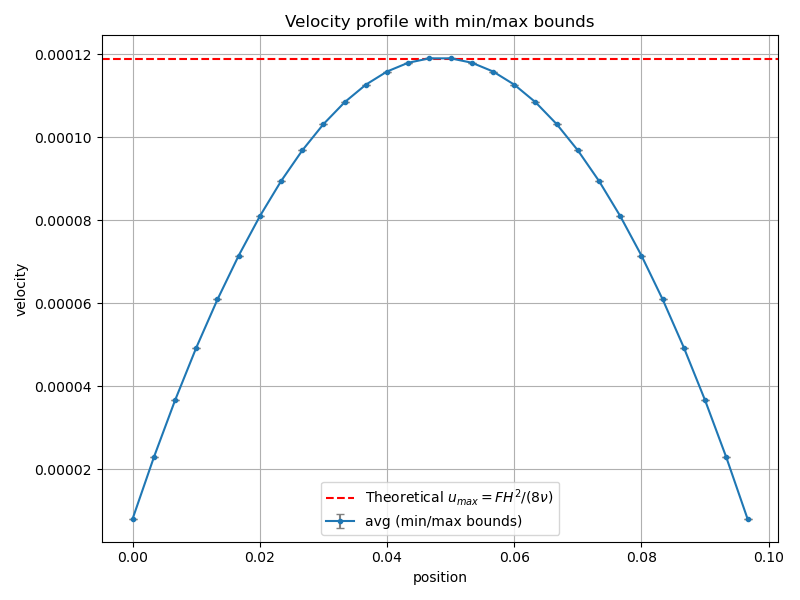
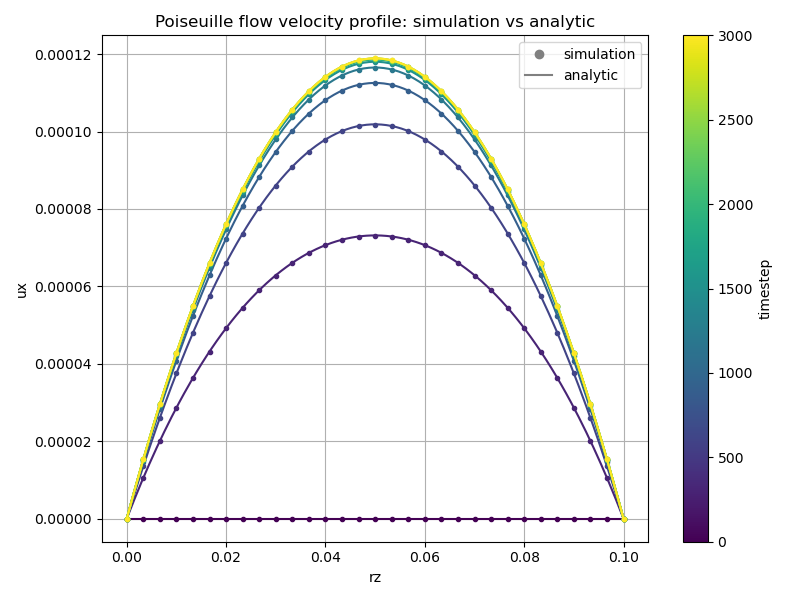
update poiseuille section

diff --git a/docs/source/pages/Examples.rst b/docs/source/pages/Examples.rst
@@ -33,12 +33,21 @@ An external force of `(9.512485×10−5,0.0,0.0)` is applied to drive the flow. 
         Fext: [9.512485e-05,0.000000e+00,0.000000e+00]
         nuth: 1e-3
 
-The global parameters for this simulation include output frequency and the total number of iterations:
+A ``plot_line_velocity`` analysis operator samples the velocity along a line probe at the center of the domain every 300 iterations. A ``plane_velocity_profile`` checker also exports the average Z profile:
 
 .. code-block:: yaml
 
+   analysis:
+     - plot_line_velocity:
+        line: [[0.05,0.05,0],[0.05,0.05,0.1]]
+
+   checker:
+     - plane_velocity_profile:
+        dimension: Z
+
    global:
       simulation_paraview_freq: 100
+      simulation_analysis_freq: 300
       simulation_end_iteration: 3000
 
 The expected results should show the development of a fully developed Poiseuille flow profile along the Z axis, with velocity increasing towards the center and decreasing near the boundaries due to the imposed Neumann conditions.
@@ -46,7 +55,11 @@ The expected results should show the development of a fully developed Poiseuille
 .. image:: ../_static/lbmpoiseuille.gif
    :align: center
 
-The velocity profile along the Z axis, once the flow is fully developed, is shown below:
+The velocity profile along Z, compared against the analytical transient Poiseuille solution, can be plotted using the provided post-processing script:
+
+.. code-block:: bash
+
+   python3 ../hippoLBM/script/profile/plot_line_poiseuille.py PoiseuilleTestDir/Profile
 
 .. image:: ../_static/poiseuille_profile_0000003001_velocity_bounds.png
    :align: center
